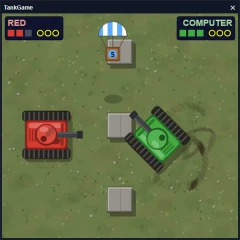
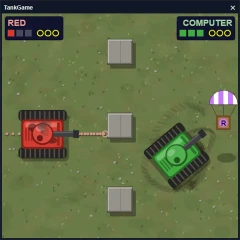
Tank Game shows where your shot will go: a dotted aiming line that bounces off walls and the edge, and brackets close round the other tank when it would hit
Claude-Session: https://claude.ai/code/session_01ME2AkhpKTTwf7rRSzUVLDn

diff --git a/TankGame/src/tankgame/GamePanel.java b/TankGame/src/tankgame/GamePanel.java
@@ -235,6 +235,78 @@ public class GamePanel extends JPanel
         g.setStroke(new BasicStroke(1f));
     }
 
+    /** A player's aiming line while they fight; none for a tank the computer drives. */
+    private Tank.Sight sight(Tank tank, Tank other)
+    {
+        if (battle.phase() != Battle.Phase.FIGHT || !tank.isAlive() || !other.isAlive()
+                        || tank.controls() instanceof ComputerControls) return null;
+        return tank.sight(getWidth(), getHeight(), battle.arena(), other, battle.supply());
+    }
+
+    /** Dots along the shell's path that fade with distance, a ring at each bounce; fainter while reloading. */
+    private void sightLine(Graphics2D g, Tank tank, Tank.Sight sight)
+    {
+        if (sight == null) return;
+        Color c = light(tank);
+        double strength = tank.reload() > 0 ? 0.45 : 1;
+        double travelled = 0;
+        double next = 0;
+        for (int i = 1; i < sight.points.size(); i++)
+        {
+            double[] a = sight.points.get(i - 1);
+            double[] b = sight.points.get(i);
+            double length = Math.hypot(b[0] - a[0], b[1] - a[1]);
+            for (; next <= travelled + length; next += 13)
+            {
+                double t = length == 0 ? 0 : (next - travelled) / length;
+                int x = (int) Math.round(a[0] + (b[0] - a[0]) * t);
+                int y = (int) Math.round(a[1] + (b[1] - a[1]) * t);
+                int alpha = (int) (strength * Math.max(70, 235 - next * 0.12));
+                g.setColor(new Color(0, 0, 0, alpha / 2));
+                g.fillOval(x - 3, y - 2, 7, 7);
+                g.setColor(new Color(c.getRed(), c.getGreen(), c.getBlue(), alpha));
+                g.fillOval(x - 3, y - 3, 6, 6);
+            }
+            travelled += length;
+            if (i < sight.points.size() - 1)
+            {
+                // A bounce: a small ring where the shell glances off.
+                int alpha = (int) (strength * Math.max(90, 235 - travelled * 0.12));
+                g.setStroke(new BasicStroke(2f));
+                g.setColor(new Color(c.getRed(), c.getGreen(), c.getBlue(), alpha));
+                g.drawOval((int) Math.round(b[0]) - 6, (int) Math.round(b[1]) - 6, 12, 12);
+                g.setStroke(new BasicStroke(1f));
+            }
+        }
+    }
+
+    /** Corner brackets round the tank a shell fired now would hit, pulsing once the gun is loaded. */
+    private void onTarget(Graphics2D g, Tank tank, Tank.Sight sight)
+    {
+        if (sight == null || sight.target == null) return;
+        boolean loaded = tank.reload() == 0;
+        int r = Tank.SIZE + 10 + (loaded ? (ticks / 4) % 4 : 0);
+        int x = (int) Math.round(sight.target.x());
+        int y = (int) Math.round(sight.target.y());
+        Color c = light(tank);
+        g.setStroke(new BasicStroke(3f, BasicStroke.CAP_ROUND, BasicStroke.JOIN_ROUND));
+        for (int pass = 0; pass < 2; pass++)
+        {
+            g.setColor(pass == 0 ? new Color(0, 0, 0, 110)
+                            : new Color(c.getRed(), c.getGreen(), c.getBlue(), loaded ? 230 : 120));
+            int o = pass == 0 ? 1 : 0;
+            for (int sx = -1; sx <= 1; sx += 2)
+                for (int sy = -1; sy <= 1; sy += 2)
+                {
+                    int cx = x + sx * r + o;
+                    int cy = y + sy * r + o;
+                    g.drawLine(cx, cy, cx - sx * 14, cy);
+                    g.drawLine(cx, cy, cx, cy - sy * 14);
+                }
+        }
+        g.setStroke(new BasicStroke(1f));
+    }
+
     public void start()
     {
         timer.start();
@@ -410,11 +482,17 @@ public class GamePanel extends JPanel
         Supply supply = battle.supply();
         if (supply != null && supply.landed()) supply.paint(g, ticks);
         pointerMark(g);
+        Tank.Sight redSight = sight(battle.red(), battle.green());
+        Tank.Sight greenSight = sight(battle.green(), battle.red());
+        sightLine(g, battle.red(), redSight);
+        sightLine(g, battle.green(), greenSight);
         if (battle.phase() != Battle.Phase.TITLE)
         {
             battle.red().paint(g);
             battle.green().paint(g);
         }
+        onTarget(g, battle.red(), redSight);
+        onTarget(g, battle.green(), greenSight);
         if (supply != null && !supply.landed()) supply.paint(g, ticks);
         for (Shell shell : battle.shells()) shell.paint(g);
         for (Spark spark : battle.sparks()) spark.paint(g);

diff --git a/TankGame/src/tankgame/Tank.java b/TankGame/src/tankgame/Tank.java
@@ -3,6 +3,7 @@ package tankgame;
 import java.awt.BasicStroke;
 import java.awt.Color;
 import java.awt.Graphics2D;
+import java.util.ArrayList;
 import java.util.List;
 
 public class Tank
@@ -142,16 +143,57 @@ public class Tank
         Object volley = angles.length > 1 ? new Object() : null;
         for (int angle : angles)
         {
-            double dx = Math.sin(Math.toRadians(tankRotation + angle));
-            double dy = -Math.cos(Math.toRadians(tankRotation + angle));
-            int barrelEnd = SIZE * 3 / 2;
-            Shell shell = new Shell(this, tankX + dx * barrelEnd, tankY + dy * barrelEnd, dx, dy);
-            shell.startFrom(tankX, tankY);
+            Shell shell = shell(angle);
             shell.setVolley(volley);
-            if (ricochetTicks > 0) shell.setMaxBounces(Shell.RICOCHET_BOUNCES);
             shells.add(shell);
         }
         reload = RELOAD_TICKS;
+    }
+
+    /** A shell leaving the end of the barrel, {@code angle} degrees off it, bouncing as this tank's shells do now. */
+    private Shell shell(int angle)
+    {
+        double dx = Math.sin(Math.toRadians(tankRotation + angle));
+        double dy = -Math.cos(Math.toRadians(tankRotation + angle));
+        int barrelEnd = SIZE * 3 / 2;
+        Shell shell = new Shell(this, tankX + dx * barrelEnd, tankY + dy * barrelEnd, dx, dy);
+        shell.startFrom(tankX, tankY);
+        if (ricochetTicks > 0) shell.setMaxBounces(Shell.RICOCHET_BOUNCES);
+        return shell;
+    }
+
+    /** Where a shell fired now would go: its path's corners (barrel end, each bounce, the end) and whether it hits. */
+    public static final class Sight
+    {
+        public final List<double[]> points = new ArrayList<>();
+        /** The tank the shell would hit, or null if it flies out, bursts on a wall or blows up a crate. */
+        public Tank target;
+    }
+
+    /**
+     * The aiming line: flies a shell from the barrel the way the battle does (bouncing off the edge and walls, bursting
+     * on a wall, stopping at the other tank or a landed crate), without firing it.
+     */
+    public Sight sight(int width, int height, Arena arena, Tank other, Supply supply)
+    {
+        Sight sight = new Sight();
+        Shell shell = shell(0);
+        sight.points.add(new double[] { shell.x(), shell.y() });
+        // 160 ticks is 1600 px, more than three bounces across the field.
+        for (int tick = 0; tick < 160; tick++)
+        {
+            boolean flying = shell.move(width, height, arena);
+            boolean hit = shell.hits(other);
+            boolean crate = supply != null && supply.hitBy(shell);
+            if (shell.bounced()) sight.points.add(shell.bouncePoint());
+            if (hit || crate || !flying)
+            {
+                sight.points.add(new double[] { shell.x(), shell.y() });
+                if (hit) sight.target = other;
+                break;
+            }
+        }
+        return sight;
     }
 
     /** One game tick on a field with no walls. */

diff --git a/TankGame/test/tankgame/BattleCheck.java b/TankGame/test/tankgame/BattleCheck.java
@@ -52,6 +52,7 @@ public final class BattleCheck
         buildYourOwnBattlefield();
         computerFightsOnABuiltBattlefield();
         narrowWindowSetsABlockingFieldAside();
+        sightShowsWhereTheShellGoes();
         System.out.println("BattleCheck: all checks passed");
     }
 
@@ -703,5 +704,41 @@ public final class BattleCheck
         small.tick(narrow, H);
         assert small.fieldBlocked() && small.arena().name().equals("Stepping Stones") : small.arena().name();
         assert small.hasField() : "the battlefield should be kept for a wider window";
+    }
+
+    /** The aiming line follows the shell the battle would fire: straight, off the edge, round a wall, and it tells the truth. */
+    private static void sightShowsWhereTheShellGoes()
+    {
+        Tank green = tank(new Script(), 380, 250, 270);
+        Tank.Sight straight = tank(new Script(), 100, 250, 90).sight(W, H, Arena.EMPTY, green, null);
+        assert straight.target == green && straight.points.size() == 2 : "a straight shot is a line to the target";
+        Tank up = tank(new Script(), 100, 250, 0);
+        Tank.Sight off = up.sight(W, H, Arena.EMPTY, green, null);
+        assert off.target == null && off.points.size() == 3 : "one bounce off the top, then out";
+        assert Math.abs(off.points.get(1)[0] - 100) < 1e-9 && Math.abs(off.points.get(1)[1]) < 1e-9 : "the bounce is on the edge";
+        up.give(Supply.Power.RICOCHET);
+        assert up.sight(W, H, Arena.EMPTY, green, null).points.size() == 5 : "ricochet shells bounce three times";
+        // Round The Bunker: for every heading, the line's verdict is what a real shell does, and some bank shot hits.
+        int banks = 0;
+        for (int rotation = 0; rotation < 360; rotation += 5)
+        {
+            Tank red = tank(new Script(), 100, 230, rotation);
+            Tank target = tank(new Script(), 380, 230, 270);
+            Arena bunker = Arena.build(Arena.LAYOUTS.get(1), W, H, red, target);
+            Tank.Sight sight = red.sight(W, H, bunker, target, null);
+            List<Shell> shells = new ArrayList<>();
+            red.fireTank(shells);
+            Shell shell = shells.get(0);
+            boolean hit = false;
+            while (shell.move(W, H, bunker))
+                if (shell.hits(target))
+                {
+                    hit = true;
+                    break;
+                }
+            assert hit == (sight.target == target) : "the line was wrong at " + rotation + " degrees";
+            if (hit && sight.points.size() > 2) banks++;
+        }
+        assert banks > 0 : "no bank shot round The Bunker";
     }
 }

diff --git a/TankGame/src/tankgame/Shell.java b/TankGame/src/tankgame/Shell.java
@@ -26,6 +26,9 @@ public class Shell
     private double           dy;
     private int              bounces;
     private boolean          bounced;
+    /** Where the last bounce touched the edge or the wall. */
+    private double           bounceX;
+    private double           bounceY;
     private boolean          burst;
     private final Tank       owner;
     /** The shells of one Triple shot share a volley, which can hit a tank only once; null for a single shell. */
@@ -95,6 +98,8 @@ public class Shell
                 burst = true;
                 return false;
             }
+            bounceX = x;
+            bounceY = y;
             if (hit[1] == 0) dx = -dx;
             else dy = -dy;
             bounces++;
@@ -104,6 +109,8 @@ public class Shell
         {
             if (x < 0 || x > width)
             {
+                bounceX = x < 0 ? 0 : width;
+                bounceY = y - dy * (x - bounceX) / dx;
                 x = x < 0 ? -x : 2 * width - x;
                 dx = -dx;
                 bounces++;
@@ -111,6 +118,8 @@ public class Shell
             }
             else if (y < 0 || y > height)
             {
+                bounceY = y < 0 ? 0 : height;
+                bounceX = x - dx * (y - bounceY) / dy;
                 y = y < 0 ? -y : 2 * height - y;
                 dy = -dy;
                 bounces++;
@@ -132,6 +141,12 @@ public class Shell
     public boolean bounced()
     {
         return bounced;
+    }
+
+    /** Where the last bounce touched the edge of the field or a wall. */
+    public double[] bouncePoint()
+    {
+        return new double[] { bounceX, bounceY };
     }
 
     /** Whether the shell ended on a wall (rather than flying out). */

diff --git a/TankGame/README.md b/TankGame/README.md
@@ -21,6 +21,7 @@ The original was unfinished: tanks could drive and fire, but shells passed throu
 - **X**, or a click or tap on the "Supply drops" line of the title card or match-over screen: supply crates on / off (on by default). That line says which; the setting is saved.
 - **C**: watch the computer play itself. A second copy of the computer drives red; from the title card (or the match-over screen) it starts a match against the computer in about two seconds, and the next one after each ends. "Computer vs computer. Press C to take red" shows along the bottom. C again hands red back to the keys, in the match as it stands. A match the computer drove red in is not recorded.
 - Each held key moves 5 px or turns 5 degrees per game tick (about 60 per second). Tanks stay inside the window and cannot drive through each other.
+- **Aiming line**: while a round is on, a dotted line in the tank's color runs from a player's barrel along the path a shell fired now would take: off the edge or a wall (a small ring marks each bounce, three with Ricochet), until the shell would fly out, burst on a wall, hit a landed crate or reach the other tank. When it reaches the other tank, corner brackets close round that tank, pulsing once the gun has reloaded; the line and brackets are fainter while reloading. It is worked out with the same moves the battle gives a real shell, so a bank shot round a wall that the line shows does land if neither tank moves first. Only players get a line, not a tank the computer drives.
 - Each fire key press shoots one shell from the end of the barrel; holding the key does not repeat, and a tank reloads for about 0.4 s between shots. A shell bounces once, off the edge of the field or a wall, then flies out or bursts on the next wall it meets. A shell never hurts the tank that fired it.
 - **Battlefields**: each round is fought on the next of four layouts of walls: Stepping Stones (three blocks down the middle), The Bunker (a long wall between the tanks), Gates (walls from the top and bottom with a gap between them) and Trenches (two long walls across the middle). The round's banner names it. Tanks cannot drive through walls, but slide along them. The walls are placed by fractions of the field, so they fit a narrow window too; a wall that would sit on a tank's starting spot is left out (on a phone held upright, the walls between the two tanks).
 - **Build your own battlefield** (**B**, or a click or tap on the "Build your own battlefield" line of the title card or match-over screen): the field turns into a 12 x 12 grid with both tanks on their starting spots. A click or tap on an empty square lays a concrete wall there, and on a wall lifts it; dragging keeps laying (or lifting, if the drag began on a wall) over every square it passes, so a long wall is one stroke. The squares on and beside a tank are shaded red and take no wall. A wall that would leave the tanks no way to drive to each other is not laid, and the line under the title says "No: then the tanks could not reach each other" (a tank needs a gap about three squares wide to get through, more in a narrow window), so a match on the field can always end. The buttons along the bottom are **Clear** (lifts every wall), **Fight here (Q)** (a match against the computer on it; **M** starts one for two players) and **Done (B)** (back to the title card). While the field has any wall, every round of every match is fought on it ("Your Battlefield" on the round banner) instead of the four layouts, and the title card says so; Clear brings the four back. The squares are fractions of the field, like the layouts, so the field keeps its shape in a narrower window, leaving out any wall that would sit on a tank there. If the narrower window leaves the tanks no way through, the rounds there are fought on the four layouts instead and the title card and round banner say "Your battlefield has no way through at this size"; the field is kept for a wider window. The computer drives round your walls as it does round the layouts'.
@@ -41,7 +42,7 @@ The original was unfinished: tanks could drive and fire, but shells passed throu
 - `src/tankgame/Battle.java`: the rules, one tick at a time: picking the opponent, rounds and their battlefields, building your own, hits, supply drops, the score, the match result and the record. It does not use Swing, so the self-check plays whole matches.
 - `src/tankgame/Arena.java`: the four battlefield layouts and the walls of a round: whether a tank touches one, and where a shell's path first meets one. Also your own battlefield: the grid, which squares take a wall, whether the tanks can still reach each other, and its text form in the record file.
 - `src/tankgame/GamePanel.java`: runs the battle on a Swing timer, and paints the ground (drawn twice as fine as the window, keeping the round's track marks and scorches), the walls, the tanks, the shells, the sparks and smoke, the score bar and the banners.
-- `src/tankgame/Tank.java`: one tank; moves, turns, fires, takes hits and draws itself, driven by its `Controls`.
+- `src/tankgame/Tank.java`: one tank; moves, turns, fires, takes hits and draws itself, driven by its `Controls`. Also its aiming line (`sight`), which `GamePanel` draws.
 - `src/tankgame/Controls.java`: what drives a tank (forward, back, left, right, fire).
 - `src/tankgame/KeyControls.java`: a player's five keys.
 - `src/tankgame/PointerControls.java`: red's keys plus the mouse or a finger: hold to drive to the pointer, tap to turn and fire there.
@@ -59,7 +60,7 @@ From the repo root: `./run.ps1 old TankGame` (or `./run.ps1 old TankGame -Build`
 
 ## Self-check
 
-`test/tankgame/BattleCheck.java` checks the hit box of a turned tank, that shells hit only the other tank and bounce once, that tanks cannot drive through each other, the reload time, that a shell bounces off a wall and then bursts on the next, that a tank slides along a wall instead of through it and a barrel poking through a wall fires into it, that every layout keeps walls and leaves both starting spots free at full and phone width, that the computer drives round The Bunker to destroy a tank hiding behind it, a whole two-player match (round starts, three hits per round, each destroyed tank counted as one blast with a shake that dies down, first to three, the match-over pause, two-player matches not recorded), a match against the computer that is saved to the record file, that the computer destroys a still target, that six computer-against-computer matches all finish with neither side winning every one, and that watching (C) starts a match from the title on its own, finishes it without recording it, starts the next one, and hands red back to the keys, and that the pointer drives red to a held spot and stops there without firing, a tap turns red to face the spot without driving and fires once, a tap on red fires straight ahead, and a tap on the title card starts a match against the computer. For the supply crates it checks each power (a repair stops at full health, a shield stops one hit only, three triple shots of three shells in a fan that hits a tank once at most, ricochet shells bounce three times, turbo speeds the tank up and wears off), that a crate cannot be taken or shot before it lands, that the first crate falls on time clear of walls and tanks and stays until someone takes it, that none fall with crates off, that two computers take crates of at least three kinds, that the setting is saved beside the record without losing it, and that six computer-against-computer matches with crates all finish with neither side winning every one. For the sound it checks that the first round of a match is heard as FIGHT!'s horn, shots, two hits and the boom of the third, in that order, that the match ends on the fanfare (two players) or the falling line (lost to the computer), and that the sound setting is saved beside the record without losing it and plays nothing while off. For your own battlefield it checks that walls go down only in the builder and never beside a tank, that a run of squares along a row is one wall in the right place, that the field is saved beside the record and the supplies setting and read back (a damaged line reads as no wall), that the next match and its rounds are fought on it, that Clear brings back the four layouts, that a wall right down the middle is refused before it shuts the tanks apart, that two computers finish a match on a built field, and that a field with a gap that fits at full width but not in a phone-wide window is set aside there for the layouts. From `TankGame/`:
+`test/tankgame/BattleCheck.java` checks the hit box of a turned tank, that shells hit only the other tank and bounce once, that tanks cannot drive through each other, the reload time, that a shell bounces off a wall and then bursts on the next, that a tank slides along a wall instead of through it and a barrel poking through a wall fires into it, that every layout keeps walls and leaves both starting spots free at full and phone width, that the computer drives round The Bunker to destroy a tank hiding behind it, a whole two-player match (round starts, three hits per round, each destroyed tank counted as one blast with a shake that dies down, first to three, the match-over pause, two-player matches not recorded), a match against the computer that is saved to the record file, that the computer destroys a still target, that six computer-against-computer matches all finish with neither side winning every one, and that watching (C) starts a match from the title on its own, finishes it without recording it, starts the next one, and hands red back to the keys, and that the pointer drives red to a held spot and stops there without firing, a tap turns red to face the spot without driving and fires once, a tap on red fires straight ahead, and a tap on the title card starts a match against the computer. For the supply crates it checks each power (a repair stops at full health, a shield stops one hit only, three triple shots of three shells in a fan that hits a tank once at most, ricochet shells bounce three times, turbo speeds the tank up and wears off), that a crate cannot be taken or shot before it lands, that the first crate falls on time clear of walls and tanks and stays until someone takes it, that none fall with crates off, that two computers take crates of at least three kinds, that the setting is saved beside the record without losing it, and that six computer-against-computer matches with crates all finish with neither side winning every one. For the sound it checks that the first round of a match is heard as FIGHT!'s horn, shots, two hits and the boom of the third, in that order, that the match ends on the fanfare (two players) or the falling line (lost to the computer), and that the sound setting is saved beside the record without losing it and plays nothing while off. For your own battlefield it checks that walls go down only in the builder and never beside a tank, that a run of squares along a row is one wall in the right place, that the field is saved beside the record and the supplies setting and read back (a damaged line reads as no wall), that the next match and its rounds are fought on it, that Clear brings back the four layouts, that a wall right down the middle is refused before it shuts the tanks apart, that two computers finish a match on a built field, and that a field with a gap that fits at full width but not in a phone-wide window is set aside there for the layouts. For the aiming line it checks that a straight shot is a line to the other tank, that a shot at the top edge bounces exactly on the edge and flies out, that a Ricochet shell's line bounces three times, and that on The Bunker, for every heading in 5 degree steps, the line hits the other tank exactly when a real shell does, with at least one bank shot among them. From `TankGame/`:
 
 ```
 javac -d ../out/check/TankGame src/tankgame/*.java test/tankgame/*.java
